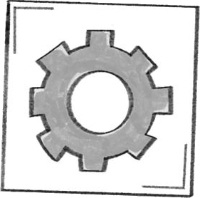
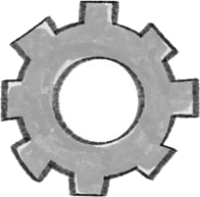
fix: apply the owner's last wishes for round 2
The mouse looked odd beside the sleeping cat because the bigger tap area also
stretched the plain image, so it now applies to the button only, with a test on
the shape of every room item. It also sits above the post, which covered it. The
cat's ears and hind feet stay white while the stars stay see-through. The gear
sits alone in a square box like the other buttons.

Records the owner's approval of C2. Q2 of the round stays open.

Evidence: pnpm verify passes.

diff --git a/e2e/shop.spec.ts b/e2e/shop.spec.ts
@@ -182,3 +182,27 @@ test("buying says so, also while the run is held", async ({ page }) => {
     "Kissen steht jetzt im Raum.",
   );
 });
+
+test("room items keep their shape while the cat sleeps", async ({ page }) => {
+  await seedGame(page, {
+    owned: ["yarn", "mouse", "pillow", "plant", "rug", "scratching-post"],
+  });
+  await page.goto("/");
+  await page.getByRole("button", { name: "Start" }).click();
+  await page.getByRole("img", { name: "Spielmaus" }).waitFor();
+  const shapes = await page.locator("img.room-item").evaluateAll((images) =>
+    images.map((element) => {
+      const image = element as HTMLImageElement;
+      const box = image.getBoundingClientRect();
+      return {
+        name: image.alt,
+        drawn: image.naturalWidth / image.naturalHeight,
+        shown: box.width / box.height,
+      };
+    }),
+  );
+  expect(shapes).toHaveLength(6);
+  for (const { name, drawn, shown } of shapes) {
+    expect(Math.abs(shown / drawn - 1), name).toBeLessThan(0.05);
+  }
+});

diff --git a/src/ui/style.css b/src/ui/style.css
@@ -306,11 +306,16 @@ button.room-item img {
 }
 
 .item-mouse {
-  right: 15%;
-  bottom: -2%;
+  z-index: 4;
+  right: -5%;
+  bottom: -3%;
+  width: 14%;
+}
+
+/* A bigger tap area for a flat drawing; only the button, or the art stretches. */
+button.item-mouse {
   display: flex;
   align-items: flex-end;
-  width: 14%;
   min-height: 2.75rem;
 }
 
@@ -370,12 +375,11 @@ button:disabled {
 
 .gear {
   flex: 0 0 auto;
-  width: 3.4rem;
-  min-height: 3.4rem;
+  width: 2.75rem;
+  height: 2.75rem;
+  min-height: 0;
   margin-left: auto;
-  padding: 0;
-  background: none;
-  border: 0;
+  padding: 0.35rem;
 }
 
 .gear img {
@@ -589,4 +593,10 @@ select {
     flex: 0 0 auto;
     width: 3.5rem;
   }
+}
+
+/* Lying cats are wide: narrower, so toys beside them stay free. */
+.stage .cat.lying img {
+  width: 76%;
+  margin: 0 auto;
 }

diff --git a/src/ui/components/CatStage.tsx b/src/ui/components/CatStage.tsx
@@ -29,7 +29,14 @@ export function CatStage({
     sad: m.catMood(name, "sad"),
   }[pose];
   const cat = <img src={catImages[pose]} alt={alt} />;
-  const place = owned.includes("pillow") ? "cat on-pillow" : "cat";
+  const lying = pose === "sleeping" || pose === "eating";
+  const place = [
+    "cat",
+    owned.includes("pillow") && "on-pillow",
+    lying && "lying",
+  ]
+    .filter(Boolean)
+    .join(" ");
   return (
     <div className="stage">
       {ROOM_ITEMS.filter((item) => owned.includes(item.id)).map((item) =>

diff --git a/docs/STATUS.md b/docs/STATUS.md
@@ -7,7 +7,7 @@ commands, outcomes, review findings and screenshots go to
 ## Product
 
 - Product: Pomo Cat (possibly Pomo Pet later, with other animals and rooms)
-- Repository/branch: `redhairedpirate394-creator/pomo-cat` (public), `001-pomo-cat-c2`
+- Repository/branch: `redhairedpirate394-creator/pomo-cat` (public), `main`; next work on `001-pomo-cat-c3`
 - Live URL: https://redhairedpirate394-creator.github.io/pomo-cat/
   (GitHub Pages, source: workflow; trial link: add `?probelauf`)
 - Spec language: de (chat and spec). App: German and English.
@@ -17,15 +17,13 @@ commands, outcomes, review findings and screenshots go to
 ## Where we are
 
 - Active feature: 001-pomo-cat (`specs/001-pomo-cat/`)
-- Checkpoint: C1 approved 2026-11-04 and published. C2 gate (T036) pending, delivery
-  mode Full. Round 2 reported.
-- Pending owner decisions: round 2 Q1 (approve and publish), Q2 (team-chosen
-  details).
+- Checkpoint: C2 approved 2026-11-04 and published; C3 next, delivery mode Full.
+- Pending owner decisions: round 2 Q2 (the four team-chosen details).
 
 ## Counters
 
 - Rounds held: 2
-- Last feedback id: r12 (next is r13)
+- Last feedback id: r15 (next is r16)
 
 ## Machine
 
@@ -48,7 +46,6 @@ commands, outcomes, review findings and screenshots go to
 
 ## Exact next action
 
-Wait for the owner (`specs/001-pomo-cat/review/round-2.md`). Do not start C3. On
-feedback: handoff step 8 in `feedback/round-2.md`. Review URL: `pnpm dev --host
-127.0.0.1 --port 5173 --strictPort`, then `/?probelauf`; local to this machine.
-On approval: publish from `001-pomo-cat-c2`, then T037 on a new branch.
+C2 is live. Ask Q2 of round 2 again. Create `001-pomo-cat-c3` from the updated
+`main` and record the publish there, then do T037 to T042 (the rest of Phase 9),
+then the C3 GATE (T043). T040 waits for the owner's remaining drawings.

diff --git a/specs/001-pomo-cat/feedback/round-2.md b/specs/001-pomo-cat/feedback/round-2.md
@@ -6,7 +6,7 @@ reading, for triage. Anything the owner did not say is marked **not stated**.
 
 These items arrived while the review ran, before the round report was posted.
 
-**Decision**: not stated
+**Decision**: approve with follow-ups
 **Publish choice**: as recorded
 **Tried**: the trial link on the local address; steps not stated
 
@@ -21,6 +21,9 @@ Type: bug (within the spec) | change (other than specified) | extension (new sco
 | r10 | next round | change | Q41 | SHOP should look like To-Dos and Start |
 | r11 | next round | change | FR-041 | Letters on one line, heights may change |
 | r12 | next round | change | FR-029 | Room items in sizes that look right together |
+| r13 | before publish | change | FR-029 | The mouse looks odd beside the sleeping cat |
+| r14 | before publish | bug | FR-040 | The hind feet must be filled, not see-through |
+| r15 | before publish | change | Q41 | Gear without its drawn frame, in a square box like To-Dos and Start |
 
 ## r07, r08, r09, r10
 
@@ -45,6 +48,16 @@ Room items get sizes that look right together.
 All of r07 to r12 are built. r09: confirmed by reproduction on the development server
 before the fix, and the settings window failed the same way.
 
+## r13, r14, r15
+
+> 1: Ja
+> 2: die maus ist komisch bei der schlafenden Katze. Die hinteren Füße der Katze sollen ausgemalt und nicht transparent sein. Mache das Zahnrad symbol OHNE rand auch in einen Kasten wie ToDO/ Start nut Quadratisch
+
+Q1 approves the round and the publish. Under 2 the owner wrote these wishes; they do
+not say whether the four details of Q2 fit, so Q2 stays open. r14 came from the
+cut-out rule of r07, which also removed small enclosed areas that belong to the cat.
+r15 supersedes the gear part of Q41.
+
 ## Not stated
 
-- Q1 and Q2 of the round 2 report.
+- Q2 of the round 2 report.

diff --git a/docs/retro.md b/docs/retro.md
@@ -35,3 +35,13 @@ Rules the owner wants for this product only go into the constitution's
 - The owner kept trying the app and answering while the review ran. The handoff
   steps assume the report comes first; a line on feedback before the report would
   remove the doubt about what such an answer approves.
+
+## Pomo Cat, C2 (2026-11-04)
+
+- The e2e suite tests a production build while owners review on the dev server, so a
+  bug that exists only under StrictMode reached the owner. A dev smoke test belongs
+  in the template.
+- Owners often send wishes during the review. The handoff has no step for what a
+  review means when the code changes right after it.
+- A mid-turn image may not reach the disk, so an owner has to send it twice.
+- Round numbers in report questions (Q1, Q2) clash with interview numbers.

diff --git a/docs/journal/001-pomo-cat.md b/docs/journal/001-pomo-cat.md
@@ -285,3 +285,11 @@ limit; the exact figure is not available.
   independent reviewer did not re-review the fixes.
 
 Context: large, by estimate well past the 250k limit; exact figure not available.
+
+### C2 decision and triage (2026-11-04)
+
+Owner approved round 2 (Q1) and sent r13 to r15, built before the publish: the mouse
+was stretched while learning, because the bigger tap area also applied to the plain
+image, now only the button and tested; enclosed ears and feet stay white, stars stay
+see-through; gear alone in a square box. Q2 is not stated and is asked again. These
+three changes had no independent review; `pnpm verify` and a visual check only.

diff --git a/specs/001-pomo-cat/tasks.md b/specs/001-pomo-cat/tasks.md
@@ -144,7 +144,7 @@ journey. Tests are written alongside the code they prove, never deferred.
 
 ### C2 GATE
 
-- [ ] T036 [GATE] C2 checkpoint (owner-facing: "Solid and usable"): same procedure as T018 for US1-US6; **STOP** for an explicit owner decision.
+- [X] T036 [GATE] C2 checkpoint (owner-facing: "Solid and usable"): same procedure as T018 for US1-US6; **STOP** for an explicit owner decision.
 
 ---
 
